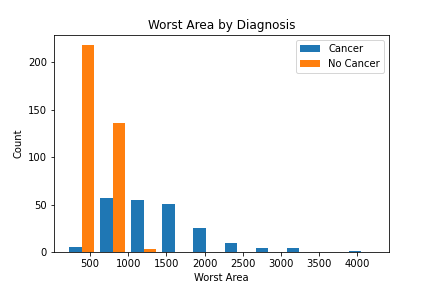
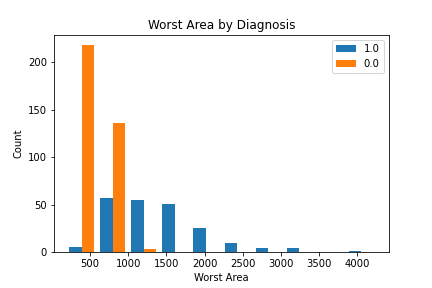
added pytest

Changed region(s): [[0.6921, 0.125, 0.8727, 0.2812]]

diff --git a/build/lib/diagnosis/twosample.py b/build/lib/diagnosis/twosample.py
@@ -1,24 +1,29 @@
 from scipy import stats
 import matplotlib.pyplot as plt
 
-# Plots the count distribution of the column specified for those with cancer vs. those without. The input data must have a diagnosis column. 
-# The output is a plot.
+
 def plt_by_diagnosis(dat, column, name):
-    dat["diagnosis"].replace({0: "No Cancer", 1: "Cancer"}, inplace = True)
-    cols = dat["diagnosis"].unique();
+    # Plots the count distribution of the column specified for those with cancer vs. 
+    # those without. 
+    # The input data must have a diagnosis column. 
+    # The output is a plot.
+    cols = dat["diagnosis"].unique()
     plt.hist([dat.loc[dat["diagnosis"] == x, column] for x in cols], label=cols);
     plt.legend()
     plt.title(name + " by Diagnosis");
     plt.xlabel(name)
     plt.ylabel("Count");
     plt.savefig('../figures/' + column)
-    
 
-    
-# Conducts the two sample t test for the data where the two populations are segregated by the "by" input. The input feature is the featuree that we want to test whether it has the sample value or not in the two populations. The var is boolean signalling whether the two populations have the same variance or not. 
 
-# The output is the t statistics, p value, and the conclusion of the two sample t test.
 def two_sample_t_test(dat, by, feature, var):
+    # Conducts the two sample t test for the data where the two populations are
+    # segregated by the "by" input. The input feature is the featuree that we
+    # want to test whether it has the sample value or not in the two populations.
+    # The var is boolean signalling whether the two populations have the
+    # same variance or not. 
+    # # The output is the t statistics, p value.
+    
     dat_0 = dat.loc[dat[by] == 0]
     dat_1 = dat.loc[dat[by] == 1]
     results = stats.ttest_ind(dat_0[feature], dat_1[feature], equal_var=var)

diff --git a/diagnosis/twosample.py b/diagnosis/twosample.py
@@ -1,24 +1,29 @@
 from scipy import stats
 import matplotlib.pyplot as plt
 
-# Plots the count distribution of the column specified for those with cancer vs. those without. The input data must have a diagnosis column. 
-# The output is a plot.
+
 def plt_by_diagnosis(dat, column, name):
-    dat["diagnosis"].replace({0: "No Cancer", 1: "Cancer"}, inplace = True)
-    cols = dat["diagnosis"].unique();
+    # Plots the count distribution of the column specified for those with cancer vs. 
+    # those without. 
+    # The input data must have a diagnosis column. 
+    # The output is a plot.
+    cols = dat["diagnosis"].unique()
     plt.hist([dat.loc[dat["diagnosis"] == x, column] for x in cols], label=cols);
     plt.legend()
     plt.title(name + " by Diagnosis");
     plt.xlabel(name)
     plt.ylabel("Count");
     plt.savefig('../figures/' + column)
-    
 
-    
-# Conducts the two sample t test for the data where the two populations are segregated by the "by" input. The input feature is the featuree that we want to test whether it has the sample value or not in the two populations. The var is boolean signalling whether the two populations have the same variance or not. 
 
-# The output is the t statistics, p value, and the conclusion of the two sample t test.
 def two_sample_t_test(dat, by, feature, var):
+    # Conducts the two sample t test for the data where the two populations are
+    # segregated by the "by" input. The input feature is the featuree that we
+    # want to test whether it has the sample value or not in the two populations.
+    # The var is boolean signalling whether the two populations have the
+    # same variance or not. 
+    # # The output is the t statistics, p value.
+    
     dat_0 = dat.loc[dat[by] == 0]
     dat_1 = dat.loc[dat[by] == 1]
     results = stats.ttest_ind(dat_0[feature], dat_1[feature], equal_var=var)

diff --git a/build/lib/diagnosis/tests/test_twosample.py b/build/lib/diagnosis/tests/test_twosample.py
@@ -1,0 +1,26 @@
+from diagnosis.twosample import two_sample_t_test
+import nump as np
+import pandas as pd
+
+dat = pd.read_csv('../../data/clean.csv')
+
+def test_p_value_lower_a():
+    t_statistics, p_value = two_sample_t_test(dat, "diagnosis", "area_worst", False)
+    assert p_value > 0  
+    
+def test_p_value_upper_a():
+    t_statistics, p_value = two_sample_t_test(dat, "diagnosis", "area_worst", False)
+    assert p_value < 1 
+    
+def test_p_value_lower_t():
+    t_statistics, p_value = two_sample_t_test(dat, "diagnosis", "texture_se", True)
+    assert p_value > 0  
+    
+def test_p_value_upper_t():
+    t_statistics, p_value = two_sample_t_test(dat, "diagnosis", "texture_se", True)
+    assert p_value < 1  
+    
+def test_t_stat():
+    t_statistics, p_value = two_sample_t_test(dat, "diagnosis", "texture_se", True)
+    assert t_statistics > 0  
+    

diff --git a/diagnosis/tests/test_twosample.py b/diagnosis/tests/test_twosample.py
@@ -1,0 +1,26 @@
+from diagnosis.twosample import two_sample_t_test
+import numpy as np
+import pandas as pd
+
+dat = pd.read_csv('data/clean.csv')
+
+def test_p_value_lower_a():
+    t_statistics, p_value = two_sample_t_test(dat, "diagnosis", "area_worst", False)
+    assert p_value > 0  
+    
+def test_p_value_upper_a():
+    t_statistics, p_value = two_sample_t_test(dat, "diagnosis", "area_worst", False)
+    assert p_value < 1 
+    
+def test_p_value_lower_t():
+    t_statistics, p_value = two_sample_t_test(dat, "diagnosis", "texture_se", True)
+    assert p_value > 0  
+    
+def test_p_value_upper_t():
+    t_statistics, p_value = two_sample_t_test(dat, "diagnosis", "texture_se", True)
+    assert p_value < 1  
+    
+def test_t_stat():
+    t_statistics, p_value = two_sample_t_test(dat, "diagnosis", "texture_se", True)
+    assert t_statistics > 0  
+    
